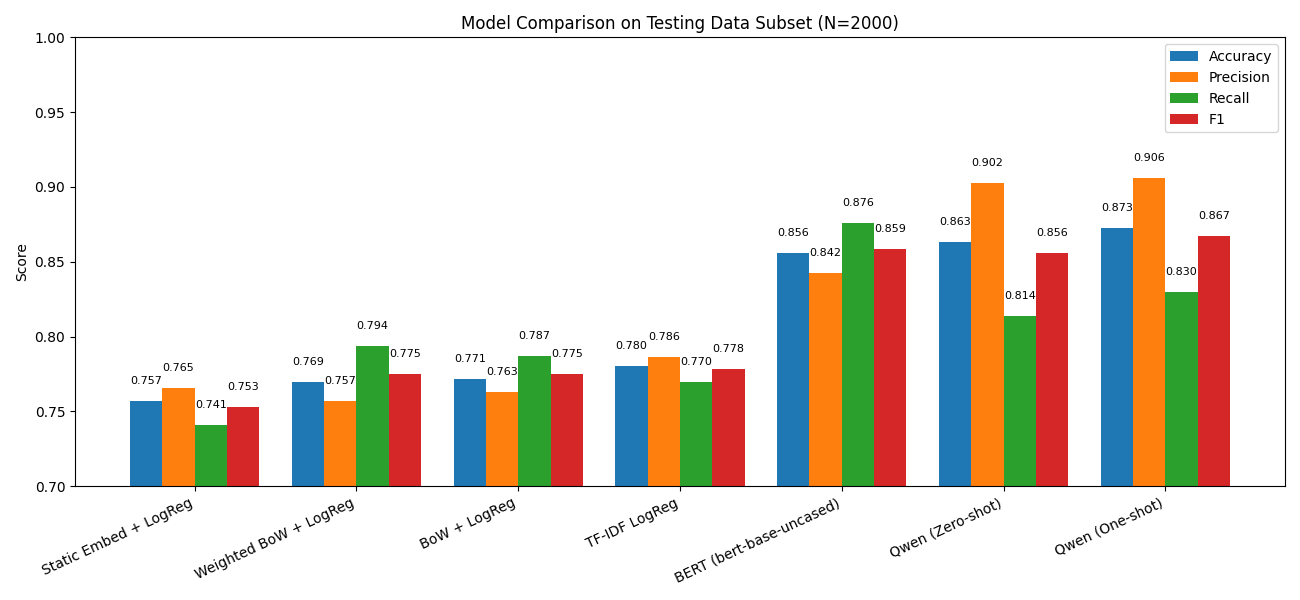
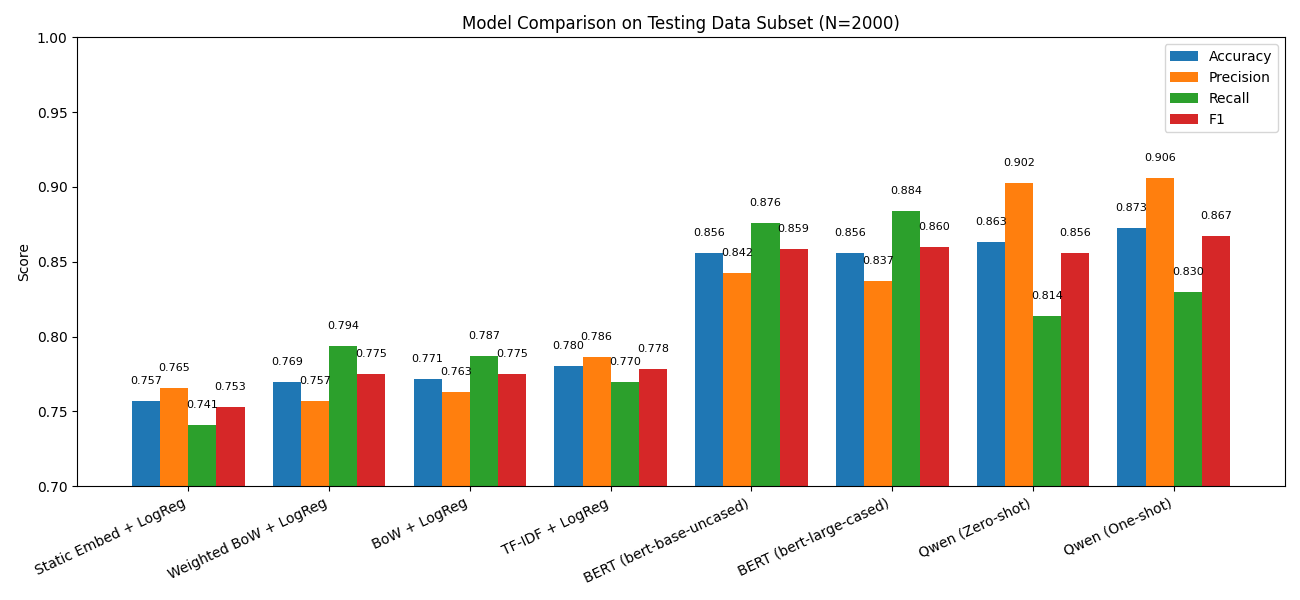
added bert_large_cased to comparison

diff --git a/models/accuracy_comparison.py b/models/accuracy_comparison.py
@@ -3,11 +3,12 @@ import matplotlib.pyplot as plt
 
 
 models = [
-    {"Model": "TF-IDF LogReg",  "Accuracy": 0.7805, "Precision": 0.7865, "Recall": 0.7700, "F1": 0.7782},
+    {"Model": "TF-IDF + LogReg",  "Accuracy": 0.7805, "Precision": 0.7865, "Recall": 0.7700, "F1": 0.7782},
     {"Model": "Static Embed + LogReg",      "Accuracy": 0.7570, "Precision": 0.7655, "Recall": 0.7410, "F1": 0.7530},
     {"Model": "Weighted BoW + LogReg",      "Accuracy": 0.7695, "Precision": 0.7569, "Recall": 0.7940, "F1": 0.7750},
     {"Model": "BoW + LogReg",               "Accuracy": 0.7715, "Precision": 0.7633, "Recall": 0.7870, "F1": 0.7750},
-    {"Model": "BERT (bert-base-uncased)",     "Accuracy": 0.8560, "Precision": 0.8423, "Recall": 0.8760, "F1": 0.8588},
+    {"Model": "BERT (bert-base-uncased)",   "Accuracy": 0.8560, "Precision": 0.8423, "Recall": 0.8760, "F1": 0.8588},
+    {"Model": "BERT (bert-large-cased)",    "Accuracy": 0.8560, "Precision": 0.8371, "Recall": 0.8840, "F1": 0.8599},
     {"Model": "Qwen (Zero-shot)",           "Accuracy": 0.8630, "Precision": 0.9024, "Recall": 0.8140, "F1": 0.8559},
     {"Model": "Qwen (One-shot)",            "Accuracy": 0.8725, "Precision": 0.9058, "Recall": 0.8300, "F1": 0.8672},
 ]
